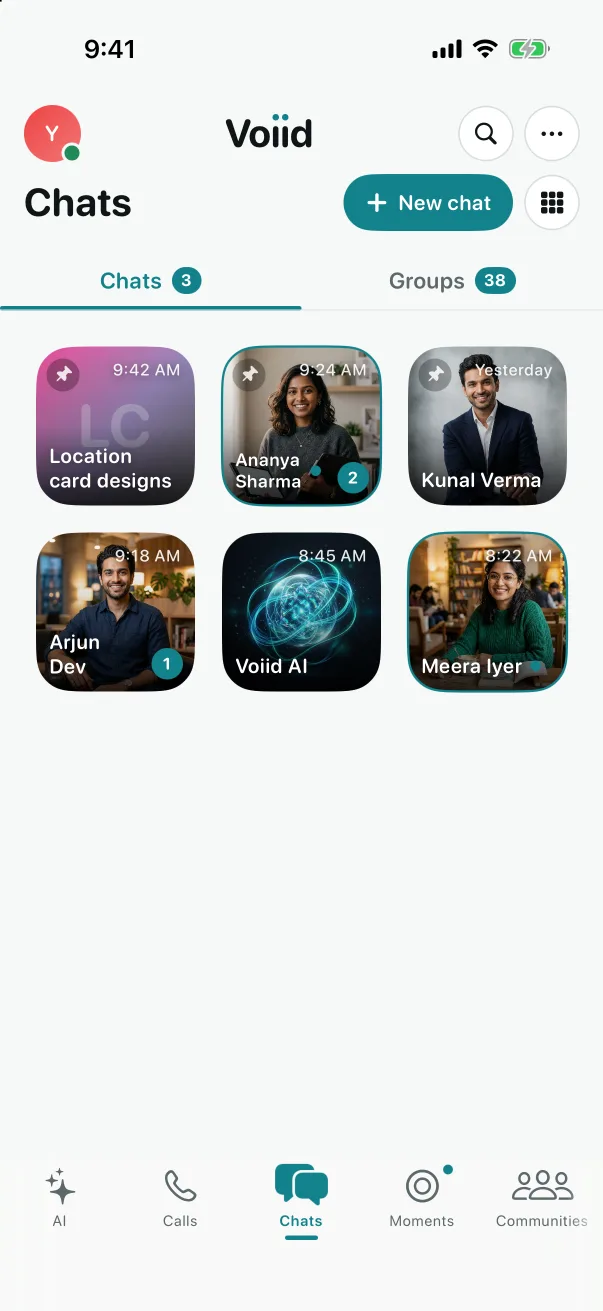
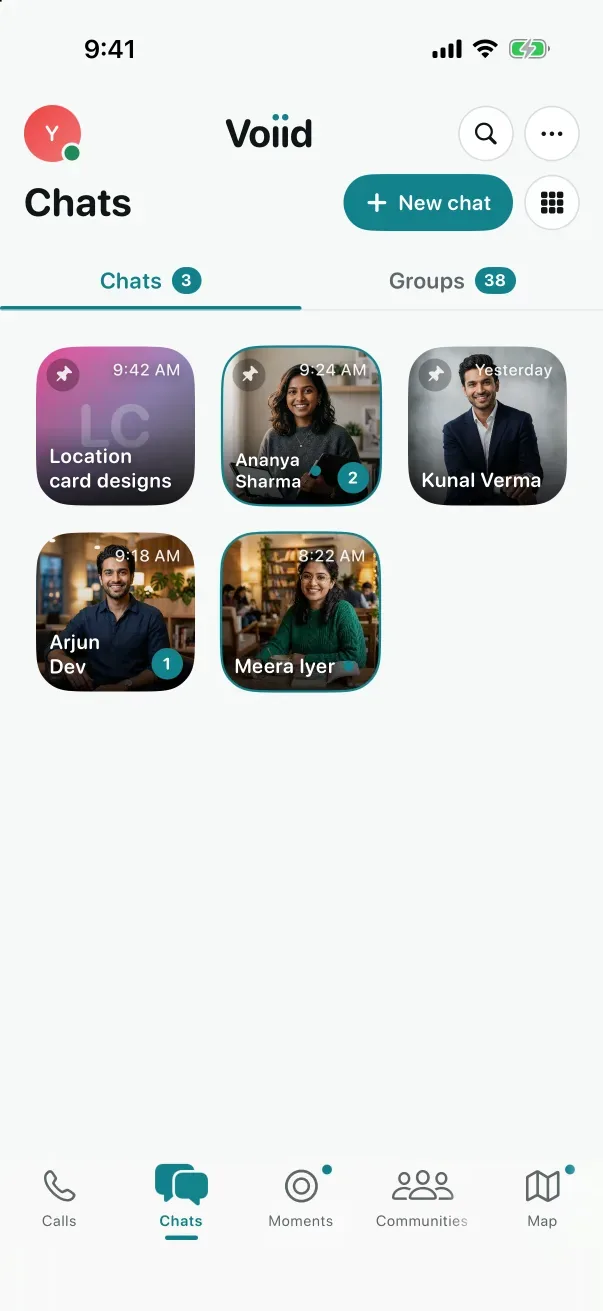
web: homepage copy refresh, remove Voiid AI from phone mockups, fix headline clipping

diff --git a/apps/web/app/page.tsx b/apps/web/app/page.tsx
@@ -24,10 +24,10 @@ export const metadata: Metadata = {
  * being built; the copy labels those "in the design build".
  */
 
-const MARQUEE = ['Chats', 'Group calls', 'Live map', 'Moments', 'Communities', 'Carrom & Ludo', 'Clips', 'Ghost Mode', 'Voiid AI', 'Voice notes'];
+const MARQUEE = ['Chats', 'Group calls', 'Live map', 'Moments', 'Communities', 'Carrom & Ludo', 'Clips', 'Ghost Mode', 'Voice notes'];
 
 const GALLERY_A = ['chats', 'group_video', 'map', 'moments', 'carrom', 'community_detail'];
-const GALLERY_B = ['clips', 'ai_chat', 'convo', 'ludo', 'map_privacy', 'group_call'];
+const GALLERY_B = ['clips', 'convo', 'ludo', 'map_privacy', 'group_call'];
 
 const ENCRYPTED = [
   'Every message, one-to-one and in groups',
@@ -65,12 +65,12 @@ export default function HomePage() {
         <div className={styles.heroInner}>
           <div className={styles.heroCopy}>
             <h1 id="hero-title" className={styles.heroTitle}>
-              <span className={styles.line}>Everything you share.</span>
-              <span className={`${styles.line} ${styles.shine}`}>Nothing we can read.</span>
+              <span className={styles.line}>Come to the Voiid.</span>
+              <span className={`${styles.line} ${styles.shine}`}>Bring your truth.</span>
             </h1>
             <p className={styles.heroLede}>
-              Chats, calls, a live map, moments, clips and games in one app. The private parts
-              are end-to-end encrypted and we hold no key. The public parts are labelled public.
+              Reclaim your social space. Chats, calls, live map, moments, clips and games. All in
+              one app. End-to-end encrypted. Think of it as your own private playground.
             </p>
             <div className={styles.heroActions}>
               <a href="#tour" className={styles.btnPrimary}>
@@ -84,15 +84,15 @@ export default function HomePage() {
             <dl className={styles.heroStats}>
               <div>
                 <dt>4</dt>
-                <dd>surfaces sealed end to end</dd>
+                <dd>The number of encrypted surfaces.</dd>
               </div>
               <div>
                 <dt>0</dt>
-                <dd>keys we hold to your chats</dd>
+                <dd>The number of keys we have to your chats.</dd>
               </div>
               <div>
                 <dt>1</dt>
-                <dd>app instead of five</dd>
+                <dd>Just one app that does the work of five.</dd>
               </div>
             </dl>
           </div>
@@ -118,11 +118,11 @@ export default function HomePage() {
         <Reveal className={styles.sectionHead}>
           <p className={styles.kicker}>The tour</p>
           <h2 id="tour-title" className={styles.h2}>
-            One app. <span className={styles.muted}>Seven places to be.</span>
+            One app. <span className={styles.muted}>A thousand places to be.</span>
           </h2>
           <p className={styles.lede}>
-            Scroll, and the phone follows. Every button you see works, so tap your way in and
-            out the way you would in the app.
+            Scroll, and the phone follows. Every button is a gateway to a new life. The first
+            fully encrypted super app from India.
           </p>
         </Reveal>
         <Story />
@@ -134,11 +134,12 @@ export default function HomePage() {
         <Reveal className={styles.sectionHead}>
           <p className={`${styles.kicker} ${styles.kickerDark}`}>How it stays private</p>
           <h2 id="sealed-title" className={`${styles.h2} ${styles.onDark}`}>
-            Sealed here. Opened there. <span className={styles.shine}>Noise in between.</span>
+            From here. To there. <span className={styles.shine}>Gibberish in between.</span>
           </h2>
           <p className={`${styles.lede} ${styles.onDarkDim}`}>
-            Your phone locks each message with the recipient&rsquo;s key before it leaves.
-            Our servers pass it along without being able to open it. This is what they see.
+            Your phone locks each message with the recipient&rsquo;s key before it leaves your
+            phone. Our servers pass it along without ever knowing what&rsquo;s in it. Look below,
+            and you see what we see.
           </p>
         </Reveal>
 

diff --git a/apps/web/components/home/screens.ts b/apps/web/components/home/screens.ts
@@ -13,7 +13,7 @@
  * rendered size.
  */
 
-export type TabId = 'ai' | 'calls' | 'chats' | 'moments' | 'communities' | 'map' | 'games' | 'clips';
+export type TabId = 'calls' | 'chats' | 'moments' | 'communities' | 'map' | 'games' | 'clips';
 
 export type ScreenId =
   | 'chats'
@@ -31,8 +31,6 @@ export type ScreenId =
   | 'map_intro'
   | 'map_privacy'
   | 'map'
-  | 'ai'
-  | 'ai_chat'
   | 'games'
   | 'carrom_setup'
   | 'carrom'
@@ -94,7 +92,6 @@ const go = (to: ScreenId, via: Transition, replace = false): Action => ({ kind: 
 const back: Action = { kind: 'back' };
 
 export const TABS: { id: TabId; label: string }[] = [
-  { id: 'ai', label: 'AI' },
   { id: 'calls', label: 'Calls' },
   { id: 'chats', label: 'Chats' },
   { id: 'moments', label: 'Moments' },
@@ -111,7 +108,6 @@ export const SCREENS: Record<ScreenId, Screen> = {
     tab: 'chats',
     hotspots: [
       { rect: rect(135, 211, 232, 308), label: 'Open chat with Ananya Sharma', action: go('convo', 'push') },
-      { rect: rect(135, 325, 232, 422), label: 'Open Voiid AI', action: go('ai_chat', 'push') },
       { rect: rect(184, 150, 368, 192), label: 'Show groups', action: go('groups', 'fade', true) },
     ],
   },
@@ -253,20 +249,6 @@ export const SCREENS: Record<ScreenId, Screen> = {
       { rect: rect(162, 378, 206, 440), label: 'You', action: { kind: 'toast', text: 'Visible to All Friends · 1 hour' } },
     ],
   },
-  ai: {
-    id: 'ai',
-    title: 'Voiid AI',
-    tab: 'ai',
-    hotspots: [
-      { rect: rect(15, 176, 354, 244), label: 'Catch me up', action: go('ai_chat', 'push') },
-      { rect: rect(15, 253, 354, 321), label: 'Draft a reply', action: go('ai_chat', 'push') },
-    ],
-  },
-  ai_chat: {
-    id: 'ai_chat',
-    title: 'Voiid AI chat',
-    hotspots: [{ rect: rect(4, 62, 40, 100), label: 'Back', action: back }],
-  },
   // Games → pick a game → "How do you want to play?" sheet → the match, as in the app.
   games: {
     id: 'games',
@@ -333,7 +315,6 @@ export const SCREENS: Record<ScreenId, Screen> = {
 };
 
 export const TAB_ROOT: Record<TabId, ScreenId> = {
-  ai: 'ai',
   calls: 'calls',
   chats: 'chats',
   moments: 'moments',

diff --git a/apps/web/components/home/Home.module.css b/apps/web/components/home/Home.module.css
@@ -51,7 +51,7 @@
 }
 .h2 {
   font-size: clamp(2.1rem, 1.3rem + 3.2vw, 3.9rem);
-  line-height: 1.04;
+  line-height: 1.12;
   letter-spacing: -0.035em;
   font-weight: 800;
   text-wrap: balance;
@@ -73,6 +73,8 @@
   -webkit-background-clip: text;
   background-clip: text;
   color: transparent;
+  /* background-clip:text only paints the inline box, which stops short of descenders (g, y, p) */
+  padding-bottom: 0.14em;
   animation: shine 9s linear infinite;
 }
 @keyframes shine {
@@ -228,7 +230,7 @@
 .heroTitle {
   margin-top: 22px;
   font-size: clamp(2.7rem, 1.2rem + 4.2vw, 5rem);
-  line-height: 0.98;
+  line-height: 1.1;
   letter-spacing: -0.045em;
   font-weight: 800;
   color: var(--on-night);
@@ -526,7 +528,7 @@
 .stepTitle {
   margin-top: 14px;
   font-size: clamp(1.7rem, 1.2rem + 1.6vw, 2.6rem);
-  line-height: 1.08;
+  line-height: 1.15;
   letter-spacing: -0.03em;
   font-weight: 800;
   text-wrap: balance;
@@ -1041,7 +1043,7 @@
   .hero { padding-top: calc(var(--header-height) + 56px); }
   .heroInner { text-align: start; }
   .heroCopy { align-items: flex-start; }
-  .heroTitle { max-width: 12ch; margin-top: 18px; font-size: clamp(2.8rem, 11.5vw, 3.45rem); line-height: 1.01; }
+  .heroTitle { max-width: 12ch; margin-top: 18px; font-size: clamp(2.8rem, 11.5vw, 3.45rem); line-height: 1.1; }
   .heroLede { margin: 20px 0 0; max-width: 36ch; font-size: 1.125rem; line-height: 1.52; }
   .heroActions { width: 100%; justify-content: flex-start; gap: 10px; margin-top: 24px; }
   .heroActions a { flex: 1; justify-content: center; min-height: 54px; padding-inline: 10px; }

diff --git a/apps/web/components/home/Story.tsx b/apps/web/components/home/Story.tsx
@@ -24,15 +24,15 @@ type Chapter = {
 /*
  * Stances follow the schema, not the marketing: messages, calls, location and
  * moments are E2EE; clips and live game state are server-readable by design.
- * Communities and AI are in the design build but not shipped, so they say so.
+ * Communities is in the design build but not shipped, so it says so.
  */
 const CHAPTERS: Chapter[] = [
   {
     id: 'chats',
     label: 'Chats',
     glyph: 'chat',
-    title: 'Say it. Only they can read it.',
-    body: 'One-to-one and group chats, sealed on your phone for every device on the other end. Voice notes, photos, replies and the pin to the café all travel the same way.',
+    title: 'Say it loud. Say it private.',
+    body: 'Access denied to everyone but those it’s meant for. One-to-one and group chats, encrypted on your phone. Voice notes, photos, replies. Everything remains private. Forever.',
     stance: 'e2ee',
     path: ['chats', 'convo'],
     tryIt: 'Type a message and hit send',
@@ -101,16 +101,6 @@ const CHAPTERS: Chapter[] = [
     path: ['clips'],
     tryIt: 'Open a clip and double-tap the heart',
     href: '/clips',
-  },
-  {
-    id: 'ai',
-    label: 'Voiid AI',
-    glyph: 'sparkle',
-    title: 'Catch up in one line.',
-    body: 'Summaries of what you missed, a draft for the reply you’ve been avoiding, and translation. It’s being designed now and will ask before it reads anything.',
-    stance: 'preview',
-    path: ['ai', 'ai_chat'],
-    tryIt: 'Go back and try “Draft a reply”',
   },
 ];
 

diff --git a/apps/web/components/home/TabIcon.tsx b/apps/web/components/home/TabIcon.tsx
@@ -19,13 +19,6 @@ export function TabIcon({ tab, filled }: { tab: TabId; filled: boolean }) {
   const fill = filled ? 'currentColor' : 'none';
 
   switch (tab) {
-    case 'ai':
-      return (
-        <svg {...common}>
-          <path fill={fill} d="M10 3.5l1.6 4.4c.3.9 1 1.6 1.9 1.9l4.4 1.6-4.4 1.6c-.9.3-1.6 1-1.9 1.9L10 19.3l-1.6-4.4c-.3-.9-1-1.6-1.9-1.9L2.1 11.4l4.4-1.6c.9-.3 1.6-1 1.9-1.9z" />
-          <path fill={fill} d="M18.5 2.5l.6 1.6 1.6.6-1.6.6-.6 1.6-.6-1.6-1.6-.6 1.6-.6zM18 16.5l.5 1.3 1.3.5-1.3.5-.5 1.3-.5-1.3-1.3-.5 1.3-.5z" />
-        </svg>
-      );
     case 'calls':
       return (
         <svg {...common}>

diff --git a/apps/web/components/home/VoiidPhone.tsx b/apps/web/components/home/VoiidPhone.tsx
@@ -22,7 +22,7 @@ import styles from './VoiidPhone.module.css';
  *
  * Each screen is a screenshot of the iOS design build; every button that matters has
  * a hotspot laid over it, so the phone behaves like the app without shipping the app.
- * Two things are live rather than pictures: the tab bar (so all eight tabs are
+ * Two things are live rather than pictures: the tab bar (so all seven tabs are
  * reachable even though the app scrolls its bar) and the chat composer, which really
  * sends and gets a reply.
  *
